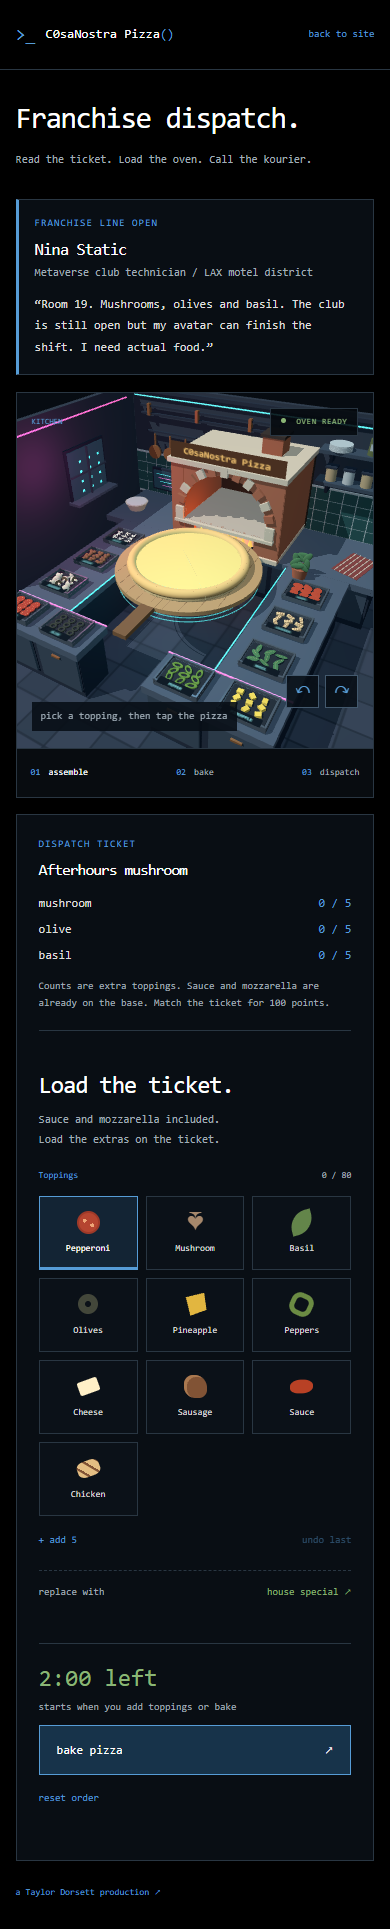
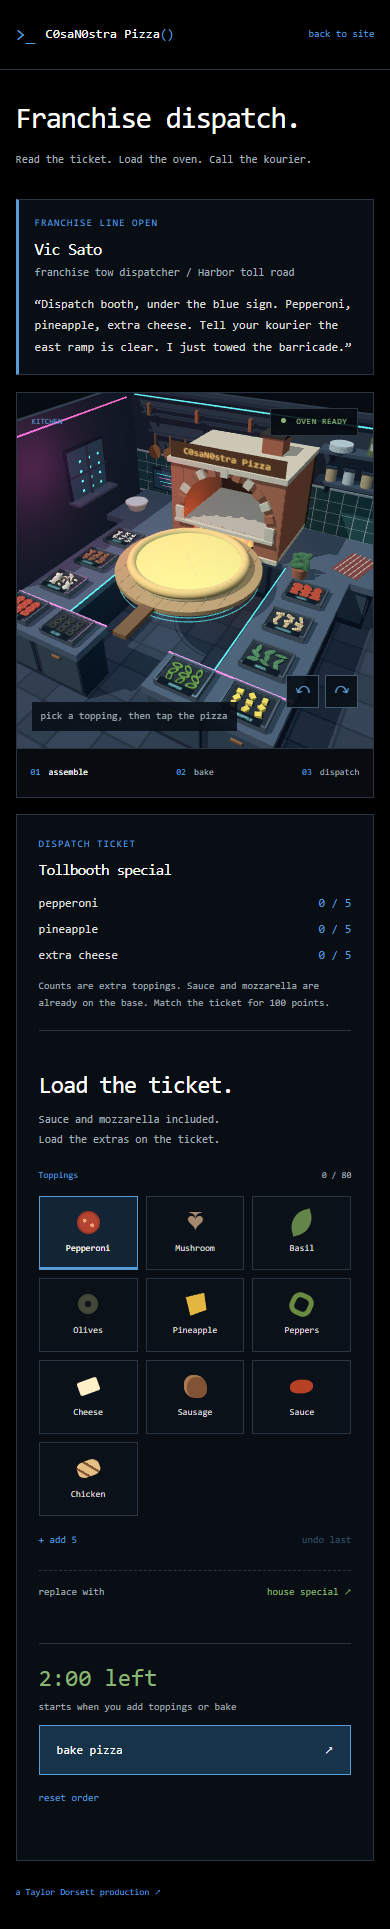
zero in both words

diff --git a/courier.js b/courier.js
@@ -208,9 +208,9 @@ export function createCourier(scene) {
   for (const z of [6.2]) box(root, -5.96, 1.35, z, 0.04, 1.9, 1.2, glass);
   for (const z of [4.4, 6.2, 8]) box(root, -5.96, 4.6, z, 0.04, 1.35, 0.9, glass);
   box(root, -5.5, 2.65, 4.5, 1.1, 0.12, 2, steel);
-  const shopName = label(root, 'C0saNostra Pizza', 4.5, 0.7, -5.86, 3.5, 6, '#e4b76b');
+  const shopName = label(root, 'C0saN0stra Pizza', 4.5, 0.7, -5.86, 3.5, 6, '#e4b76b');
   shopName.rotation.y = Math.PI / 2;
-  label(root, 'C0saNostra Pizza', 5, 0.7, -9, 3.5, 2.85, '#e4b76b');
+  label(root, 'C0saN0stra Pizza', 5, 0.7, -9, 3.5, 2.85, '#e4b76b');
   // The pickup hatch belongs to the shop, leaving the street and rider path clear.
   box(root, -5.94, 1.65, pickup.z, 0.1, 1.15, 1.9, dark);
   box(root, -5.35, 1.15, pickup.z, 1.3, 0.12, 1.9, alloy);
@@ -332,7 +332,7 @@ export function createCourier(scene) {
   root.add(parcel);
   box(parcel, 0, 0, 0, 0.92, 0.13, 0.92, material('#bbae85'));
   box(parcel, 0, -0.06, 0, 0.94, 0.04, 0.94, trim);
-  const logo = label(parcel, 'C0saNostra', 0.75, 0.19, 0, 0.072, 0, '#ac4439', '#bbae85');
+  const logo = label(parcel, 'C0saN0stra', 0.75, 0.19, 0, 0.072, 0, '#ac4439', '#bbae85');
   logo.rotation.x = -Math.PI / 2;
   box(parcel, 0, 0.075, 0, 0.045, 0.009, 0.95, bagMat);
   for (const x of [-0.35, 0.35])

diff --git a/index.html b/index.html
@@ -6,7 +6,7 @@
     <meta name="theme-color" content="#000000" />
     <meta
       name="description"
-      content="Snowcrust: a C0saNostra Pizza dispatch terminal. Take a call from the burbclaves, build the pizza and send a kourier into traffic."
+      content="Snowcrust: a C0saN0stra Pizza dispatch terminal. Take a call from the burbclaves, build the pizza and send a kourier into traffic."
     />
     <title>Snowcrust | franchise dispatch</title>
     <link
@@ -20,7 +20,7 @@
   <body>
     <header class="header">
       <a class="wordmark" href="./" aria-label="Snowcrust home"
-        ><span class="brand-dot">&gt;_</span> C0saNostra Pizza<span class="period">()</span></a
+        ><span class="brand-dot">&gt;_</span> C0saN0stra Pizza<span class="period">()</span></a
       >
       <span class="header-note">Snowcrust / franchise kitchen</span>
       <a class="home-link" href="https://www.taylordorsett.com/">back to site</a>

diff --git a/orders.js b/orders.js
@@ -16,7 +16,7 @@ export const customers = [
     job: 'freelance data kourier',
     neighborhood: 'Long Beach container stacks',
     pizza: 'Night shift chicken',
-    call: 'C0saNostra? Container 88, upper deck. Chicken, peppers and extra sauce. Knock twice. The doorbell belongs to a company I no longer work for.',
+    call: 'C0saN0stra? Container 88, upper deck. Chicken, peppers and extra sauce. Knock twice. The doorbell belongs to a company I no longer work for.',
     toppings: { chicken: 5, pepper: 5, sauce: 1 }
   },
   {

diff --git a/pizza-oven.js b/pizza-oven.js
@@ -88,7 +88,7 @@ export function createPizzaOven(parent) {
   ctx.fillStyle = '#e8b96c';
   ctx.font = 'bold 66px monospace';
   ctx.textAlign = 'center';
-  ctx.fillText('C0saNostra Pizza', 384, 85);
+  ctx.fillText('C0saN0stra Pizza', 384, 85);
   const texture = new THREE.CanvasTexture(canvas);
   texture.colorSpace = THREE.SRGBColorSpace;
   const sign = mesh(

diff --git a/README.md b/README.md
@@ -1,6 +1,6 @@
 # Snowcrust
 
-Snowcrust is the project. C0saNostra Pizza is the franchise you work for. a customer calls from the franchise district, gives you an order and rates it after delivery. add toppings, fire the oven and send the courier.
+Snowcrust is the project. C0saN0stra Pizza is the franchise you work for. a customer calls from the franchise district, gives you an order and rates it after delivery. add toppings, fire the oven and send the courier.
 
 call the courier after baking. she collects the box while rolling, skates up to the street and hooks a passing car. traffic keeps moving in both directions.
 
